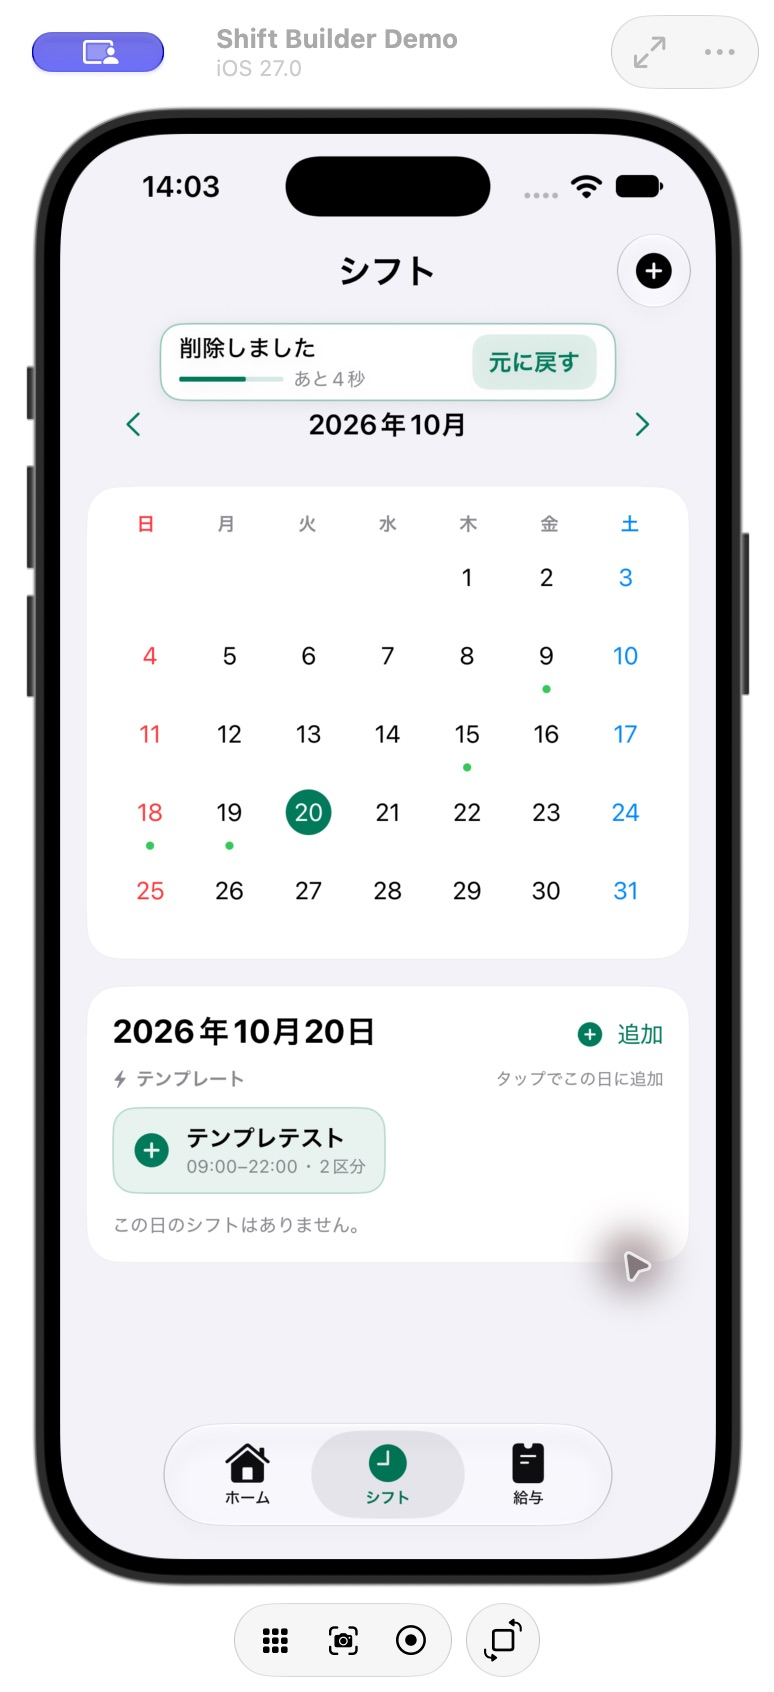
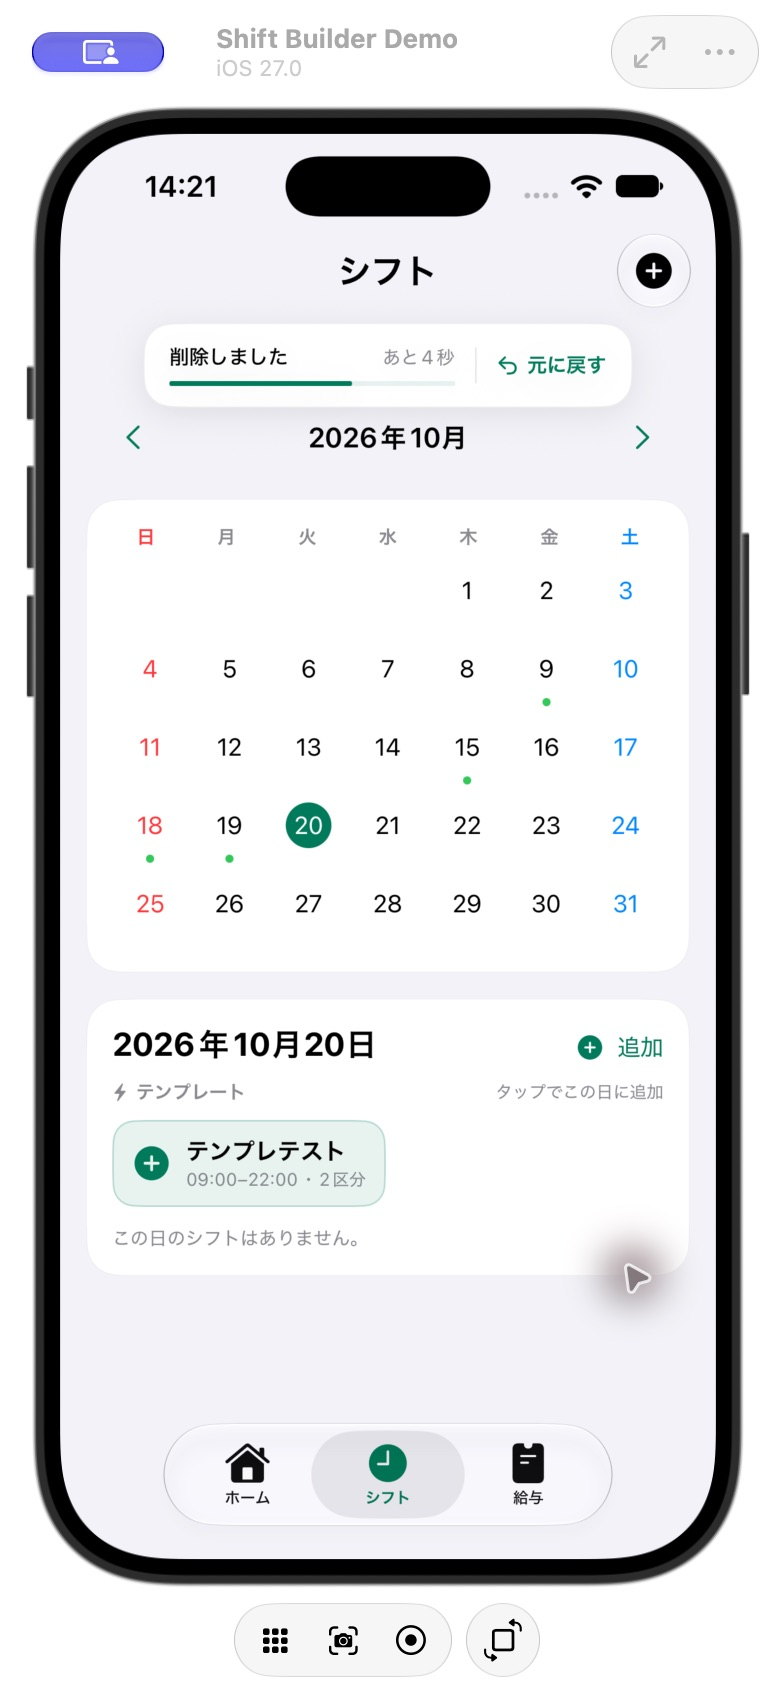
Refine the undo card spacing, typography, and action styling

diff --git a/ShiftManagerApp/ShiftManagerApp/ShiftsTab.swift b/ShiftManagerApp/ShiftManagerApp/ShiftsTab.swift
@@ -141,7 +141,7 @@ struct ShiftsTab: View {
                 .padding(16)
                 // Leave room just above the month label without moving the calendar
                 // when the temporary undo card appears or expires.
-                .padding(.top, 24)
+                .padding(.top, 32)
                 .readableColumn()
             }
             .background(Color(.systemGroupedBackground))
@@ -207,51 +207,59 @@ struct ShiftsTab: View {
             let seconds = Int(ceil(remaining))
             let progress = min(1, remaining / ShiftStore.shiftDeletionUndoDuration)
             HStack(spacing: 12) {
-                VStack(alignment: .leading, spacing: 3) {
-                    Group {
-                        if store.pendingShiftDeletionCount == 1 {
-                            Text("削除しました")
-                        } else {
-                            Text("\(store.pendingShiftDeletionCount)件削除しました")
-                        }
-                    }
-                    .font(.subheadline.weight(.medium)).foregroundStyle(.primary)
-                    .lineLimit(1).minimumScaleFactor(0.8)
-                    HStack(spacing: 6) {
-                        Capsule()
-                            .fill(Color.accentColor.opacity(0.16))
-                            .overlay(alignment: .leading) {
-                                Capsule().fill(Color.accentColor)
-                                    .scaleEffect(x: progress, y: 1, anchor: .leading)
+                VStack(alignment: .leading, spacing: 7) {
+                    HStack(alignment: .firstTextBaseline, spacing: 8) {
+                        Group {
+                            if store.pendingShiftDeletionCount == 1 {
+                                Text("削除しました")
+                            } else {
+                                Text("\(store.pendingShiftDeletionCount)件削除しました")
                             }
-                            .frame(width: 64, height: 3)
-                            .accessibilityHidden(true)
+                        }
+                        .font(.footnote.weight(.medium)).foregroundStyle(.primary)
+                        .lineLimit(1).minimumScaleFactor(0.8)
+                        Spacer(minLength: 0)
                         Text("あと\(seconds)秒")
                             .font(.caption).foregroundStyle(.secondary)
                             .lineLimit(1).minimumScaleFactor(0.8)
                             .accessibilityLabel("元に戻せる残り時間、\(seconds)秒")
                     }
+                    Capsule()
+                        .fill(Color.accentColor.opacity(0.1))
+                        .overlay(alignment: .leading) {
+                            Capsule().fill(Color.accentColor)
+                                .scaleEffect(x: progress, y: 1, anchor: .leading)
+                        }
+                        .frame(height: 3)
+                        .accessibilityHidden(true)
                 }
                 .frame(maxWidth: .infinity, alignment: .leading)
+                Rectangle()
+                    .fill(Color.primary.opacity(0.09))
+                    .frame(width: 1, height: 22)
+                    .accessibilityHidden(true)
                 Button(action: undoDeletion) {
-                    Text("元に戻す")
-                        .font(.subheadline.weight(.semibold)).foregroundStyle(Color.accentColor)
-                        .padding(.horizontal, 10).padding(.vertical, 8)
-                        .background(Color.accentColor.opacity(0.12), in: RoundedRectangle(cornerRadius: 10))
-                        .frame(minHeight: 44).contentShape(Rectangle())
+                    HStack(spacing: 5) {
+                        Image(systemName: "arrow.uturn.backward")
+                            .font(.system(size: 12, weight: .medium))
+                            .accessibilityHidden(true)
+                        Text("元に戻す").font(.footnote.weight(.semibold))
+                    }
+                    .foregroundStyle(Color.accentColor)
+                    .frame(minHeight: 44).contentShape(Rectangle())
                 }
                     .buttonStyle(.plain)
                     .accessibilityHint("直前に削除したシフトをまとめて戻します")
             }
             .frame(height: 44)
-            .padding(.horizontal, 12).padding(.vertical, 2)
-            .frame(maxWidth: 280)
-            .background(Color(.secondarySystemGroupedBackground), in: RoundedRectangle(cornerRadius: 14))
+            .padding(.horizontal, 16).padding(.vertical, 4)
+            .frame(maxWidth: 300)
+            .background(Color(.secondarySystemGroupedBackground), in: RoundedRectangle(cornerRadius: 18, style: .continuous))
             .overlay {
-                RoundedRectangle(cornerRadius: 14)
-                    .strokeBorder(Color.accentColor.opacity(0.4), lineWidth: 1)
+                RoundedRectangle(cornerRadius: 18, style: .continuous)
+                    .strokeBorder(Color.primary.opacity(0.07), lineWidth: 0.75)
             }
-            .shadow(color: .black.opacity(0.07), radius: 5, y: 2)
+            .shadow(color: .black.opacity(0.08), radius: 10, y: 4)
         }
     }
 

diff --git a/docs/DESIGN.md b/docs/DESIGN.md
@@ -15,7 +15,7 @@
 
 ホームの追加ボタンもカレンダーへつなげます。異なる時間を入れたいときだけ、選択日の「追加」からフォームを開きます。写真読み取りは通常導線に置きません。
 
-削除もゴミ箱を1回押すだけです。すぐ一覧と給与予定に反映し、月表示のすぐ上に、背景と枠線のある「削除しました／元に戻す」カードを5秒表示します。「あと○秒」と短くなるバーを添え、戻せる残り時間が分かるようにしています。「元に戻す」は背景色付きのボタンにし、ナビゲーションの「シフト」見出しは残します。カードの表示・非表示ではカレンダーやテンプレートの位置を動かしません。連続で削除すると最後の削除から5秒を数え直し、表示された件数をまとめて復元できます。元のID・勤務時間・時給・休憩・手当を保持します。
+削除もゴミ箱を1回押すだけです。すぐ一覧と給与予定に反映し、月表示のすぐ上に、白い背景・控えめな輪郭と影のある「削除しました／元に戻す」カードを5秒表示します。「あと○秒」と短くなるバーを添え、戻せる残り時間が分かるようにしています。削除した件数と残り秒数を同じ行に揃え、バーをその下に長く表示します。「元に戻す」は細い区切りの右側に矢印と文字でまとめ、ナビゲーションの「シフト」見出しは残します。カードの表示・非表示ではカレンダーやテンプレートの位置を動かしません。連続で削除すると最後の削除から5秒を数え直し、表示された件数をまとめて復元できます。元のID・勤務時間・時給・休憩・手当を保持します。
 
 元に戻す期間中は、その勤務パターンをテンプレートから消しません。別のシフトを同じ時間に登録した場合は、復元で勤務が二重にならないよう検証します。ログアウト時には復元候補を消します。
 
